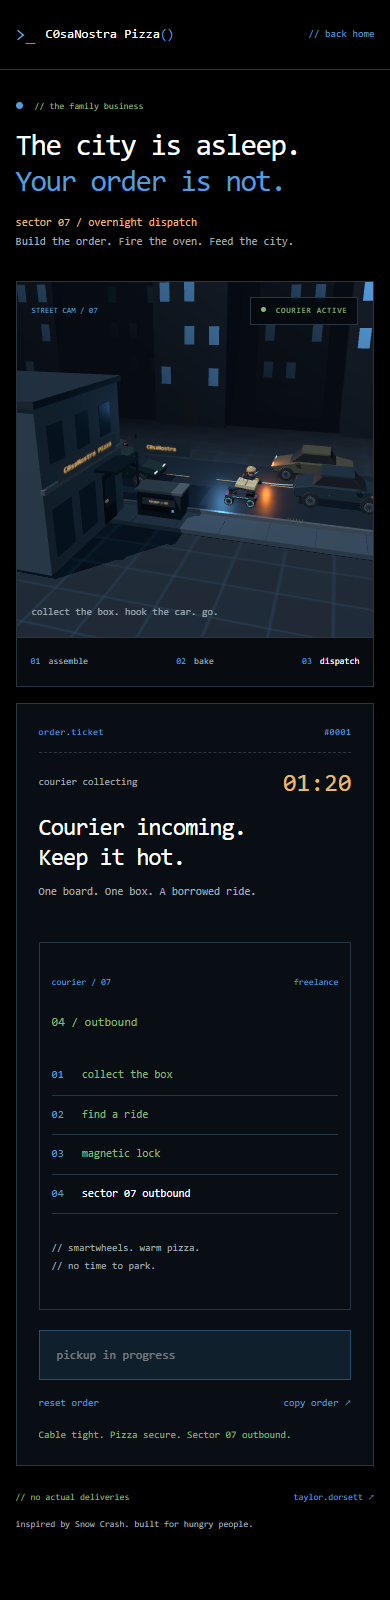
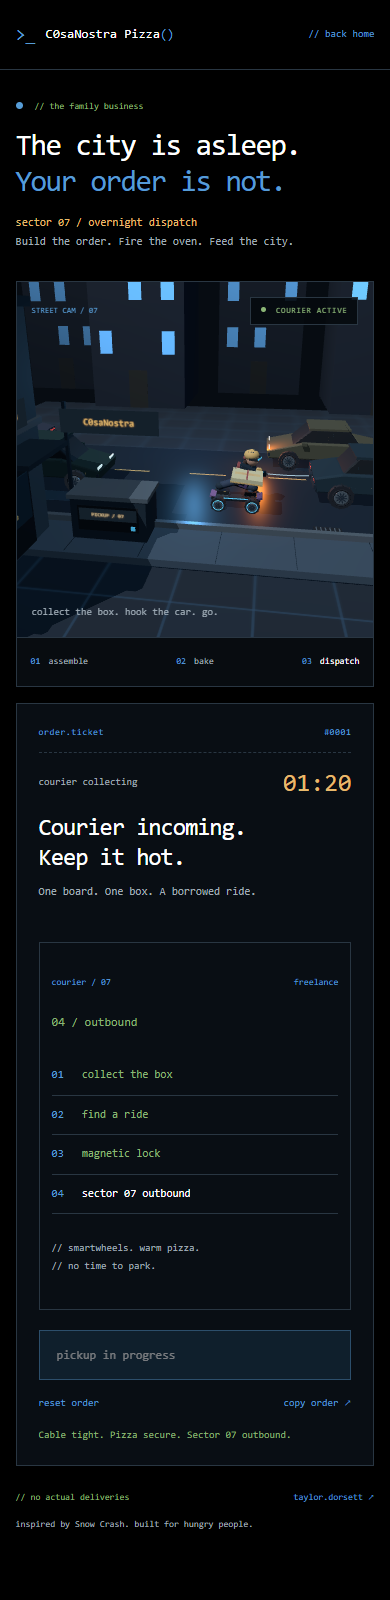
improve mobile camera

diff --git a/app.js b/app.js
@@ -159,7 +159,17 @@ let courierPhase='';
 function restoreKitchen(){
   courier.reset();courierPhase='';delete document.body.dataset.courierPhase;
   kitchenObjects.forEach(object=>object.visible=true);
-  camera.position.set(6.8,9.7,11.7);camera.lookAt(0,.1,-.5);
+  frameCamera(false);
+}
+function frameCamera(delivering){
+  const mobile=host.clientWidth<500;
+  if(delivering){
+    camera.position.set(...(mobile?[0,6,14]:[3,9,21]));
+    camera.lookAt(...(mobile?[-2,1.5,1]:[-3,2,1]));
+  }else{
+    camera.position.set(6.8,9.7,11.7);
+    camera.lookAt(0,.1,-.5);
+  }
 }
 let toppings=[], selected='pepperoni', mode='prep', bakingStarted=0, lastTime=0, sliceTarget=0;
 let rotationTarget=0, pointerStart=null;
@@ -211,7 +221,7 @@ function dispatch(){
   if(!['baked','sliced','dispatched'].includes(mode))return;
   mode='pickup';courierStarted=performance.now();sliceTarget=0;
   courierPhase='';
-  camera.position.set(3,9,21);camera.lookAt(-3,2,1);
+  frameCamera(true);
   kitchenObjects.forEach(object=>object.visible=false);courier.start();update();
   say('Courier at the pickup bay.');
 }
@@ -255,7 +265,7 @@ $('share').addEventListener('click',()=>{const url=new URL(location.href);url.ha
 $('copy-link').addEventListener('click',async()=>{try{await navigator.clipboard.writeText($('share-url').value);$('copy-status').textContent='Copied. Send it to someone hungry.';}catch{$('share-url').focus();$('share-url').select();$('copy-status').textContent='Select the link above and copy it.';}});
 function openRecipe(){if(!location.hash)return;const recipe=decodeRecipe(location.hash);if(!recipe){say('That recipe link looks broken. Fresh dough is ready instead.');return;}restoreKitchen();removeAll();pickupStarted=null;pickupFinished=null;mode='prep';carriage.position.set(0,0,0);sliceTarget=0;slices[6].position.set(0,0,0);setCooked(0);for(const [type,x,z,angle]of recipe.t)addTopping(type,x,z,angle,false);update();say('Order received. Fresh pickup window. Ready to bake.');}
 window.addEventListener('hashchange',openRecipe);
-const observer=new ResizeObserver(()=>{const width=host.clientWidth,height=host.clientHeight;renderer.setSize(width,height);camera.aspect=width/height;camera.fov=width<500?43:34;camera.updateProjectionMatrix();});observer.observe(host);
+const observer=new ResizeObserver(()=>{const width=host.clientWidth,height=host.clientHeight;renderer.setSize(width,height);camera.aspect=width/height;camera.fov=width<500?43:34;frameCamera(mode==='pickup'||mode==='dispatched');camera.updateProjectionMatrix();});observer.observe(host);
 
 function animate(now){
   const dt=Math.min((now-lastTime)/1000,.04);lastTime=now;
